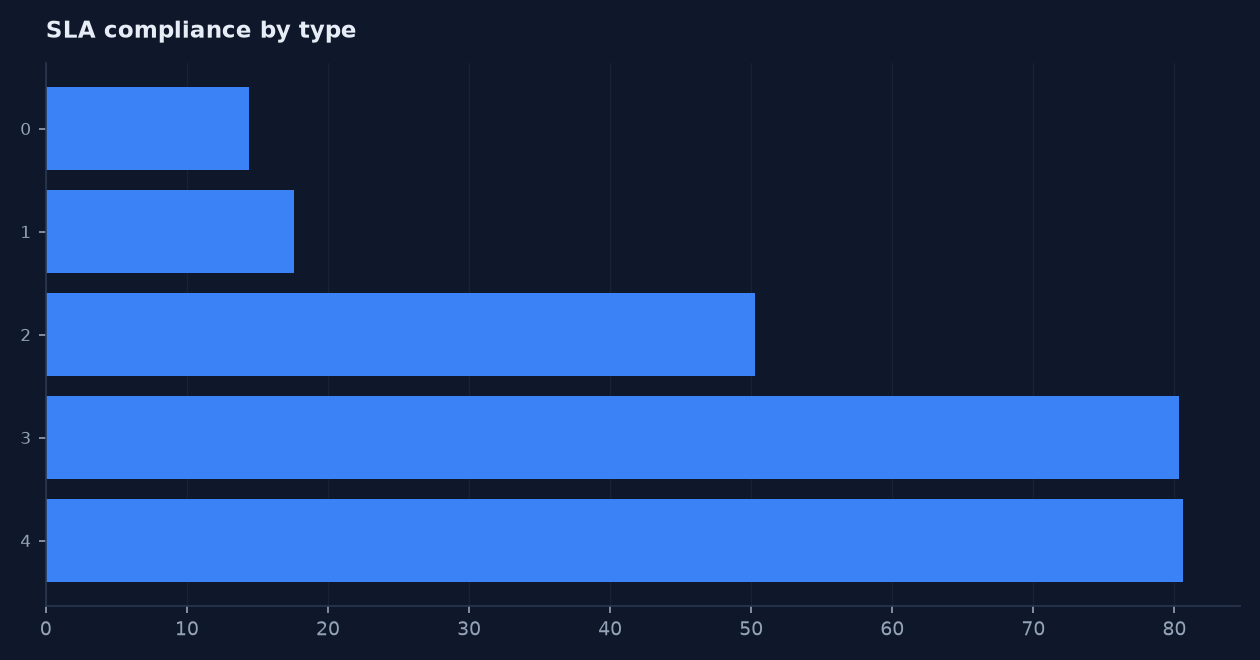
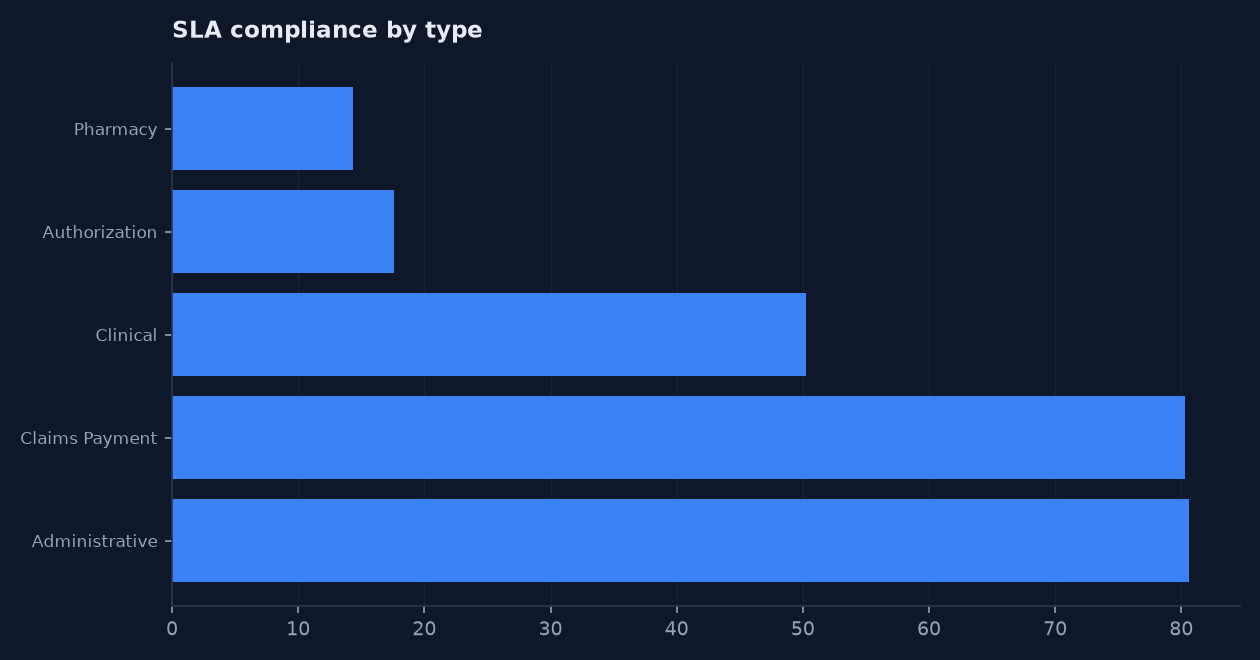
Fix static charts and Excel negatives
- Horizontal bars now label the category axis instead of numbers
- Series on a right-hand axis get their own scale in PNG charts
- Excel bar series set invertIfNegative=false so negative values plot below zero
- Hex colours and stacked bars render as configured

diff --git a/src/build_bi_assets.py b/src/build_bi_assets.py
@@ -298,15 +298,22 @@ def build_excel(cfg: dict, results: dict[str, list[dict]], repo: str) -> Path:
                          titles_from_data=True)
             sub.set_categories(cats)
             for i, ser in enumerate(sub.series):
-                colour = COLOURS.get(defs[i].get("colour"),
-                                     PALETTE[i % len(PALETTE)])
+                raw = str(defs[i].get("colour", ""))
+                colour = (raw[1:].upper() if raw.startswith("#") else
+                          COLOURS.get(raw, PALETTE[i % len(PALETTE)]))
                 if is_line:
                     ser.smooth = False
                     ser.graphicalProperties.line.width = 26000
                     ser.graphicalProperties.line.solidFill = colour
+                elif str(defs[i].get("colour", "")).startswith("rgba(0,0,0,0)"):
+                    ser.graphicalProperties.noFill = True        # waterfall offset
+                    ser.graphicalProperties.line.noFill = True
                 else:
                     ser.graphicalProperties.solidFill = colour
                     ser.graphicalProperties.line.noFill = True
+                if not is_line:
+                    # Absent this flag, LibreOffice draws negative bars upward.
+                    ser.invertIfNegative = False
             # A bar chart whose value axis does not start at zero exaggerates
             # small differences - Excel autoscales to 55-62 on a set of
             # percentages in the high fifties and makes a 4-point spread look
@@ -321,6 +328,13 @@ def build_excel(cfg: dict, results: dict[str, list[dict]], repo: str) -> Path:
                     # of the plot, printing the labels over the bars. Push them
                     # to the low edge instead.
                     sub.x_axis.tickLblPos = "low"
+            # Without an explicit crossing point LibreOffice draws negative
+            # bars upward from zero, as if they were positive.
+            sub.x_axis.crosses = "autoZero"
+            if axis_id is None:
+                sub.y_axis.crosses = "autoZero"
+            if card.get("y_min") is not None:
+                sub.y_axis.scaling.min = card["y_min"]
             if axis_id is not None:
                 sub.y_axis.axId = axis_id
                 sub.y_axis.majorGridlines = None
@@ -430,6 +444,14 @@ def build_charts(cfg: dict, results: dict[str, list[dict]]) -> list[Path]:
         "font.size": 9,
     })
 
+    def col(s, i):
+        c = s.get("colour", "")
+        if c.startswith("rgba(0,0,0,0)"):
+            return (0, 0, 0, 0)
+        if c.startswith("#"):
+            return c
+        return "#" + COLOURS.get(c, PALETTE[i % len(PALETTE)])
+
     for card in chart_cards(cfg)[:6]:
         rows = results[card["query"]]
         labels = [str(r.get(card["label_field"])) for r in rows]
@@ -452,12 +474,21 @@ def build_charts(cfg: dict, results: dict[str, list[dict]]) -> list[Path]:
             ax.set_aspect("equal")
             ax.grid(False)
         elif card["type"] == "line":
+            ax2 = ax.twinx() if any(s.get("axis") == "right" for s in series) else None
             for i, s in enumerate(series):
-                ax.plot(labels, [r.get(s["field"]) for r in rows], marker="o",
-                        ms=4, lw=2, label=s["label"],
-                        color="#" + COLOURS.get(s.get("colour"),
-                                                PALETTE[i % len(PALETTE)]))
-            if len(series) > 1:
+                target = ax2 if (ax2 is not None and s.get("axis") == "right") else ax
+                target.plot(labels, [r.get(s["field"]) for r in rows], marker="o",
+                            ms=4, lw=2, label=s["label"], color=col(s, i))
+            if ax2 is not None:
+                right = [s for s in series if s.get("axis") == "right"]
+                ax2.set_ylabel(card.get("y1_title") or right[0]["label"])
+                ax2.spines["top"].set_visible(False)
+                h1, l1 = ax.get_legend_handles_labels()
+                h2, l2 = ax2.get_legend_handles_labels()
+                ax.legend(h1 + h2, l1 + l2, frameon=False, fontsize=8, loc="lower left",
+                          bbox_to_anchor=(0, 1.0), ncol=len(h1 + h2))
+                ax._twin_legend = True
+            elif len(series) > 1:
                 ax.legend(frameon=False, fontsize=8)
             plt.setp(ax.get_xticklabels(), rotation=30, ha="right")
         elif card["type"] == "hbar":
@@ -466,36 +497,87 @@ def build_charts(cfg: dict, results: dict[str, list[dict]]) -> list[Path]:
             for i, s in enumerate(series):
                 ax.barh([p + i * width for p in pos],
                         [r.get(s["field"]) or 0 for r in rows], height=width,
-                        label=s["label"],
-                        color="#" + COLOURS.get(s.get("colour"),
-                                                PALETTE[i % len(PALETTE)]))
+                        label=s["label"], color=col(s, i))
             ax.set_yticks([p + 0.4 - width / 2 for p in pos])
             ax.set_yticklabels(labels, fontsize=8)
             ax.invert_yaxis()
             if len(series) > 1:
                 ax.legend(frameon=False, fontsize=8)
-        else:
-            width = 0.8 / len(series)
-            pos = range(len(labels))
+        elif card.get("stacked"):
+            pos = list(range(len(labels)))
+            bottom = [0.0] * len(labels)
             for i, s in enumerate(series):
-                ax.bar([p + i * width for p in pos],
-                       [r.get(s["field"]) or 0 for r in rows], width=width,
-                       label=s["label"],
-                       color="#" + COLOURS.get(s.get("colour"),
-                                               PALETTE[i % len(PALETTE)]))
+                vals = [r.get(s["field"]) or 0 for r in rows]
+                ax.bar(pos, vals, bottom=bottom, width=0.7, color=col(s, i),
+                       label=None if s["label"].startswith("(") else s["label"])
+                bottom = [b + v for b, v in zip(bottom, vals)]
+            ax.set_xticks(pos)
+            ax.set_xticklabels(labels, rotation=30, ha="right", fontsize=8)
+            ax.legend(frameon=False, fontsize=8)
+        else:
+            bars = [s for s in series if s.get("as") != "line"] or series
+            width = 0.8 / len(bars)
+            pos = range(len(labels))
+            # Series flagged axis="right" (a rate beside a count) get their own
+            # scale; on one shared axis they flatten into a line along zero.
+            ax2 = ax.twinx() if any(s.get("axis") == "right" for s in series) else None
+            for i, s in enumerate(series):
+                target = ax2 if (ax2 is not None and s.get("axis") == "right") else ax
+                vals = [r.get(s["field"]) or 0 for r in rows]
+                if s.get("as") == "line":
+                    target.plot([p + 0.4 - width / 2 for p in pos], vals, marker="o",
+                                ms=4, lw=2, label=s["label"], color=col(s, i), zorder=3)
+                else:
+                    b = bars.index(s)
+                    target.bar([p + b * width for p in pos], vals, width=width,
+                               label=s["label"], color=col(s, i))
+            if ax2 is not None:
+                # Whichever axis carries the lines sits on top; gridlines live on
+                # the bottom axis only so they never cut across the bars.
+                left_lines = any(s.get("as") == "line" for s in series
+                                 if s.get("axis") != "right")
+                top, bottom_ax = (ax, ax2) if left_lines else (ax2, ax)
+                top.set_zorder(bottom_ax.get_zorder() + 1)
+                top.patch.set_visible(False)
+                ax.grid(False)
+                ax2.grid(False)
+                bottom_ax.grid(axis="y", lw=0.6, alpha=0.6)
+                bottom_ax.set_axisbelow(True)
             ax.set_xticks([p + 0.4 - width / 2 for p in pos])
             ax.set_xticklabels(labels, rotation=30, ha="right", fontsize=8)
-            if len(series) > 1:
+            if ax2 is not None:
+                right = [s for s in series if s.get("axis") == "right"]
+                ax2.set_ylabel(card.get("y1_title") or right[0]["label"])
+                ax2.set_ylim(bottom=0)
+                ax2.spines["top"].set_visible(False)
+                ax2.yaxis.set_major_formatter(FuncFormatter(
+                    lambda v, _: f"{v:,.0f}" if abs(v) >= 1000 else f"{v:g}"))
+                h1, l1 = ax.get_legend_handles_labels()
+                h2, l2 = ax2.get_legend_handles_labels()
+                ax.legend(h1 + h2, l1 + l2, frameon=False, fontsize=8, loc="lower left",
+                          bbox_to_anchor=(0, 1.0), ncol=len(h1 + h2))
+                ax._twin_legend = True
+                if any(s.get("axis") != "right" and s.get("as") != "line" for s in series):
+                    ax.set_ylim(bottom=0)
+                if not card.get("y_title"):
+                    left = [s for s in series if s.get("axis") != "right"]
+                    ax.set_ylabel(left[0]["label"] if len(left) == 1 else "")
+            elif len(series) > 1:
                 ax.legend(frameon=False, fontsize=8)
 
+        if card.get("y_min") is not None:
+            ax.set_ylim(bottom=card["y_min"])
+        if card.get("y_title") and card["type"] != "doughnut":
+            (ax.set_xlabel if card["type"] == "hbar" else ax.set_ylabel)(card["y_title"])
         if card["type"] != "doughnut":
-            ax.yaxis.set_major_formatter(FuncFormatter(
+            (ax.xaxis if card["type"] == "hbar" else ax.yaxis).set_major_formatter(FuncFormatter(
                 lambda v, _: f"{v:,.0f}" if abs(v) >= 1000 else f"{v:g}"))
         for spine in ("top", "right"):
             ax.spines[spine].set_visible(False)
 
         ax.set_title(card["title"], color="#e7edf6", fontsize=11, loc="left",
-                     pad=12, fontweight="bold")
+                     pad=26 if getattr(ax, "_twin_legend", False) else 12,
+                     fontweight="bold")
         fig.tight_layout()
         path = outdir / f"{slug(card['query'])}.png"
         fig.savefig(path, facecolor="#0f172a")
